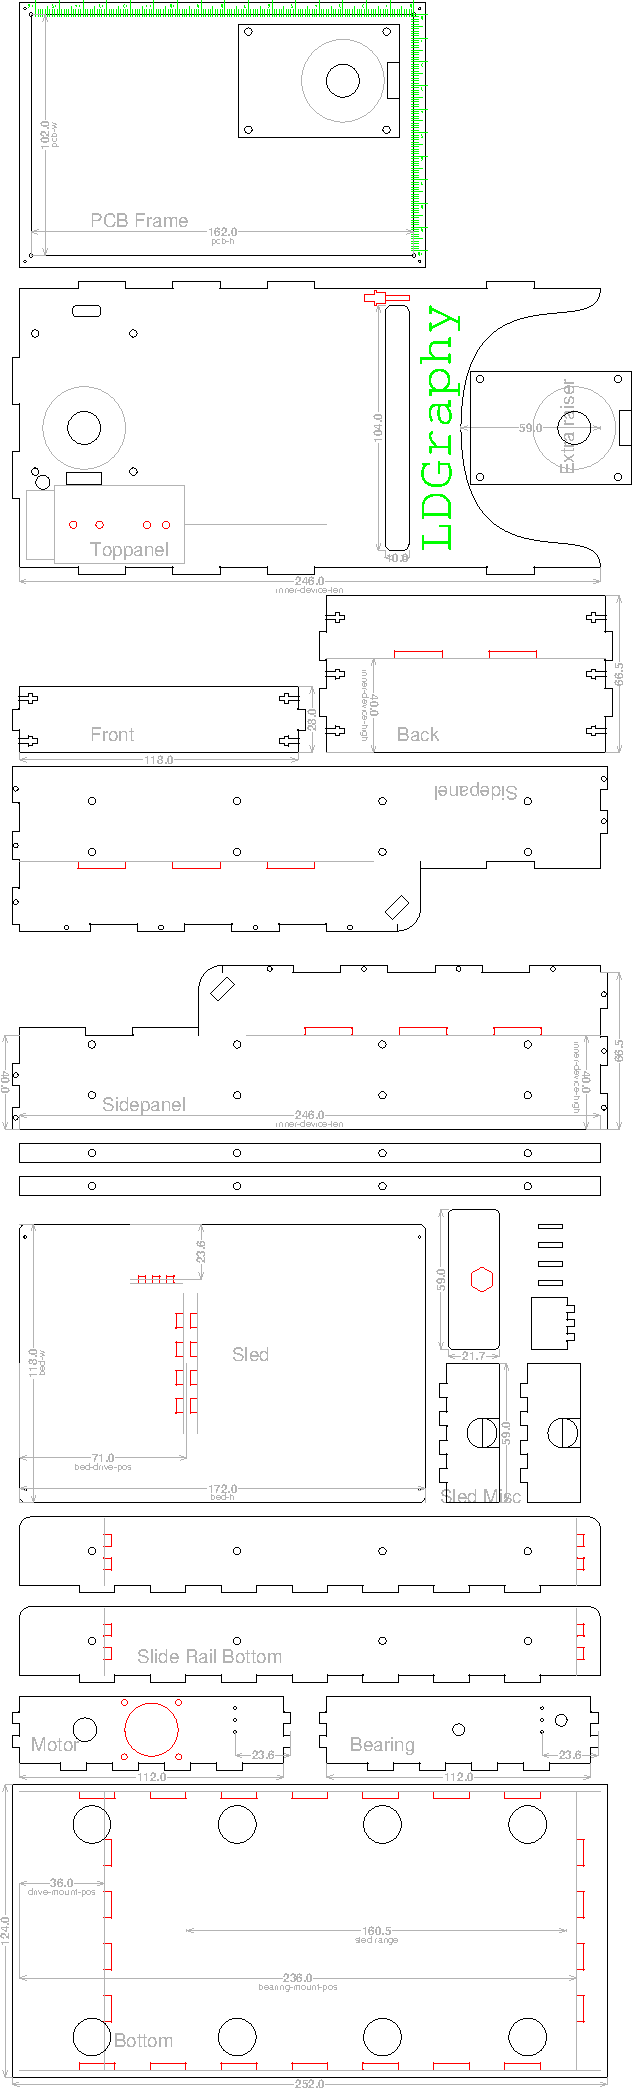
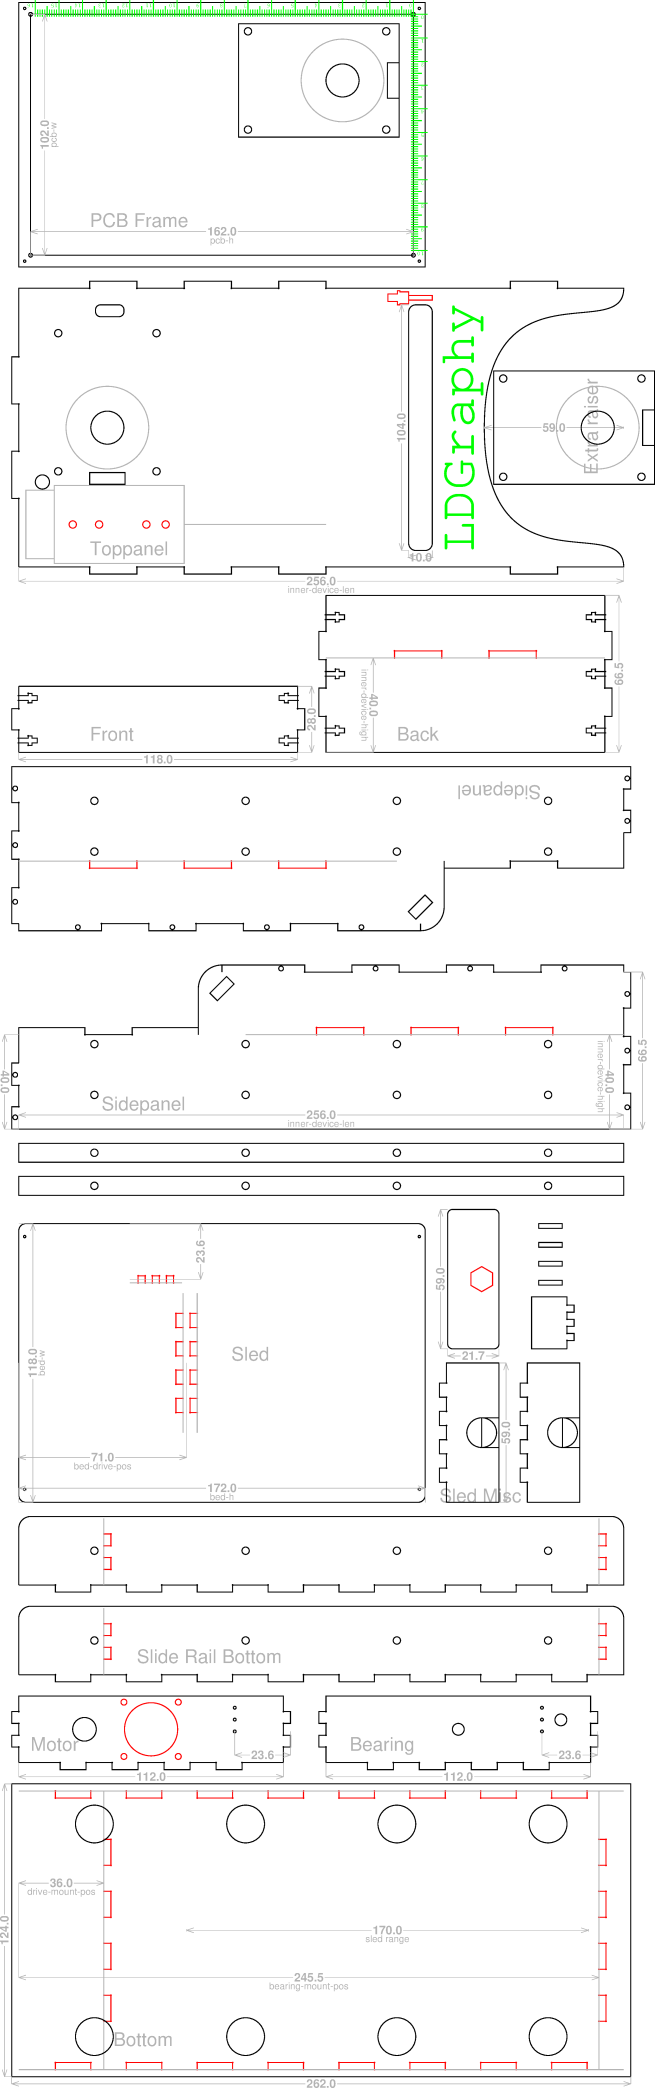
o Better parametrize sled range.

diff --git a/hardware/README.md b/hardware/README.md
@@ -15,7 +15,7 @@ laser can blind you!
 The file covers several parts, and depending on which you can fit
 on your acrylic sheet and/or which you have to re-do, you can choose the ones
 to be output in the first section that defines the
-[`/print-...`](./laser-cut-case.ps#L4) boolean variables.
+[`/print-...`](./laser-cut-case.ps#L28) boolean variables.
 
 The Makefile can create a dxf file that is then usable in any laser cutter, just
 call `make`.
